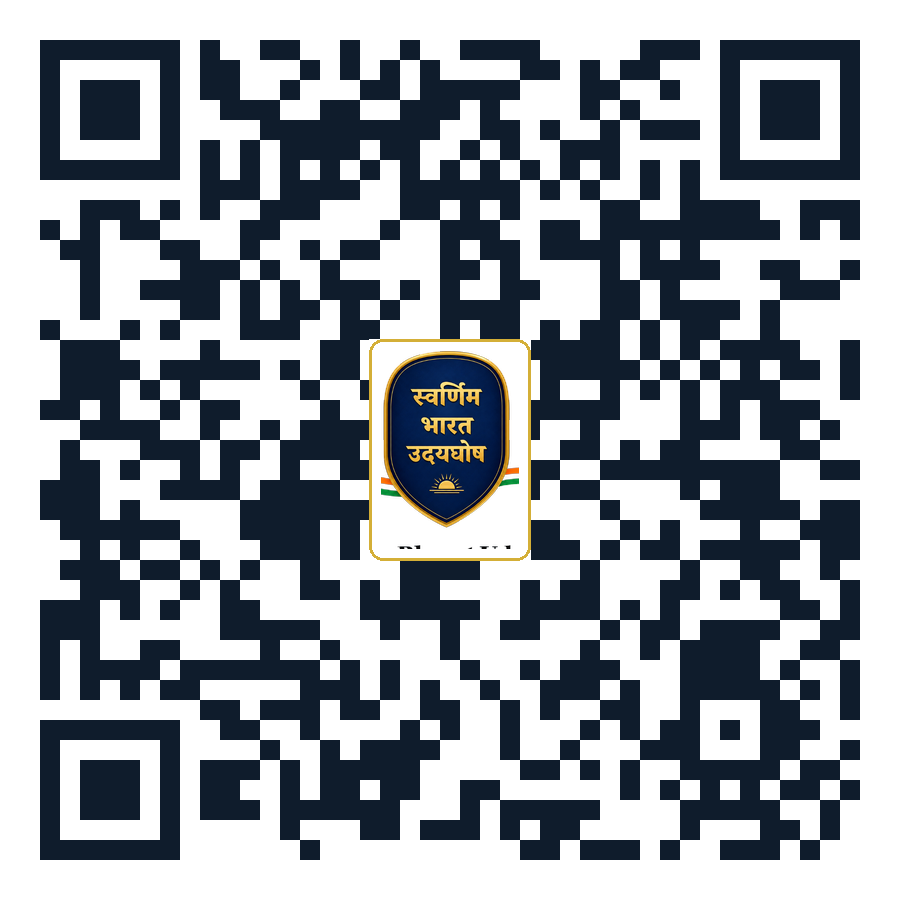
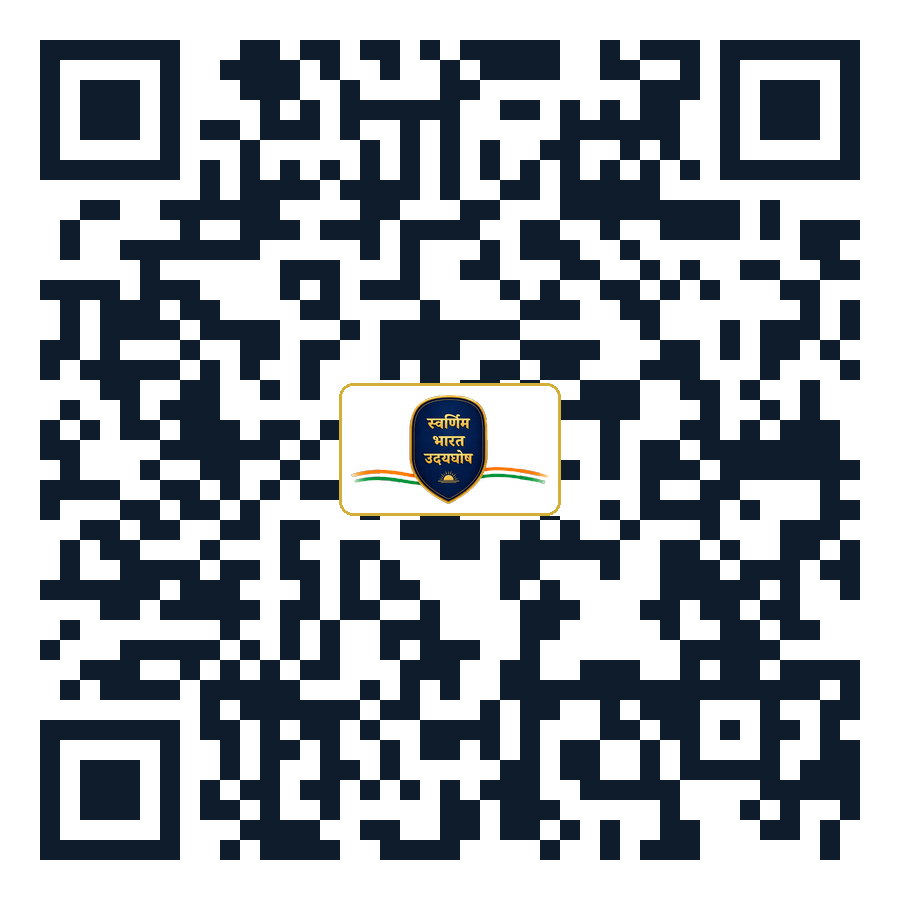
Update official QR code and standee poster to encode official website domain swarnimbharatudayghosh.com

diff --git a/take-pledge-and-scanner.html b/take-pledge-and-scanner.html
@@ -377,7 +377,7 @@ button,a{-webkit-tap-highlight-color:transparent}
 <!-- Simulated Architectural Jharokha Notch Accents -->
 <div class="absolute -top-1.5 left-4 right-4 h-1 bg-gradient-to-r from-tertiary via-surface-container-high to-secondary"></div>
 <div class="relative w-64 h-64 sm:w-72 sm:h-72 overflow-hidden rounded-lg flex items-center justify-center bg-surface-bright">
-<img alt="Sacred Bharat 2047 QR Scanner Portal" class="w-full h-full object-contain filter drop-shadow-md transition-transform duration-500 group-hover:scale-105" src="assets/official-qr-code.png"/>
+<img alt="Sacred Bharat 2047 QR Scanner Portal" class="w-full h-full object-contain filter drop-shadow-md transition-transform duration-500 group-hover:scale-105" src="assets/official-qr-code.png?v=4"/>
 <!-- Subtle Scanner Laser Beam Animation -->
 <div class="absolute left-0 right-0 h-1 bg-tertiary/75 shadow-[0_0_12px_rgba(167,58,0,0.8)] pointer-events-none transition-all duration-75" id="laserBeam" style="top: 25%;"></div>
 </div>

diff --git a/index.html b/index.html
@@ -153,7 +153,7 @@ button,a{-webkit-tap-highlight-color:transparent}
 
 <!-- Featured Large Square QR Scanner Display (Filled & Prominent) -->
 <div class="relative w-full max-w-[420px] sm:max-w-[480px] aspect-square my-2 rounded-2xl overflow-hidden bg-surface-container p-3 sm:p-4 shadow-inner border border-outline-variant/30 flex items-center justify-center mx-auto">
-<img class="w-full h-full object-contain rounded-xl drop-shadow-md" alt="Official Swarnim Bharat QR Code" src="assets/official-qr-code.png"/>
+<img class="w-full h-full object-contain rounded-xl drop-shadow-md" alt="Official Swarnim Bharat QR Code" src="assets/official-qr-code.png?v=4"/>
 <!-- Active Scanning Crosshair Line -->
 <div class="absolute left-4 right-4 h-0.5 bg-gradient-to-r from-transparent via-tertiary to-transparent shadow-[0_0_10px_#a73a00] animate-pulse" id="scanner-beam"></div>
 </div>
